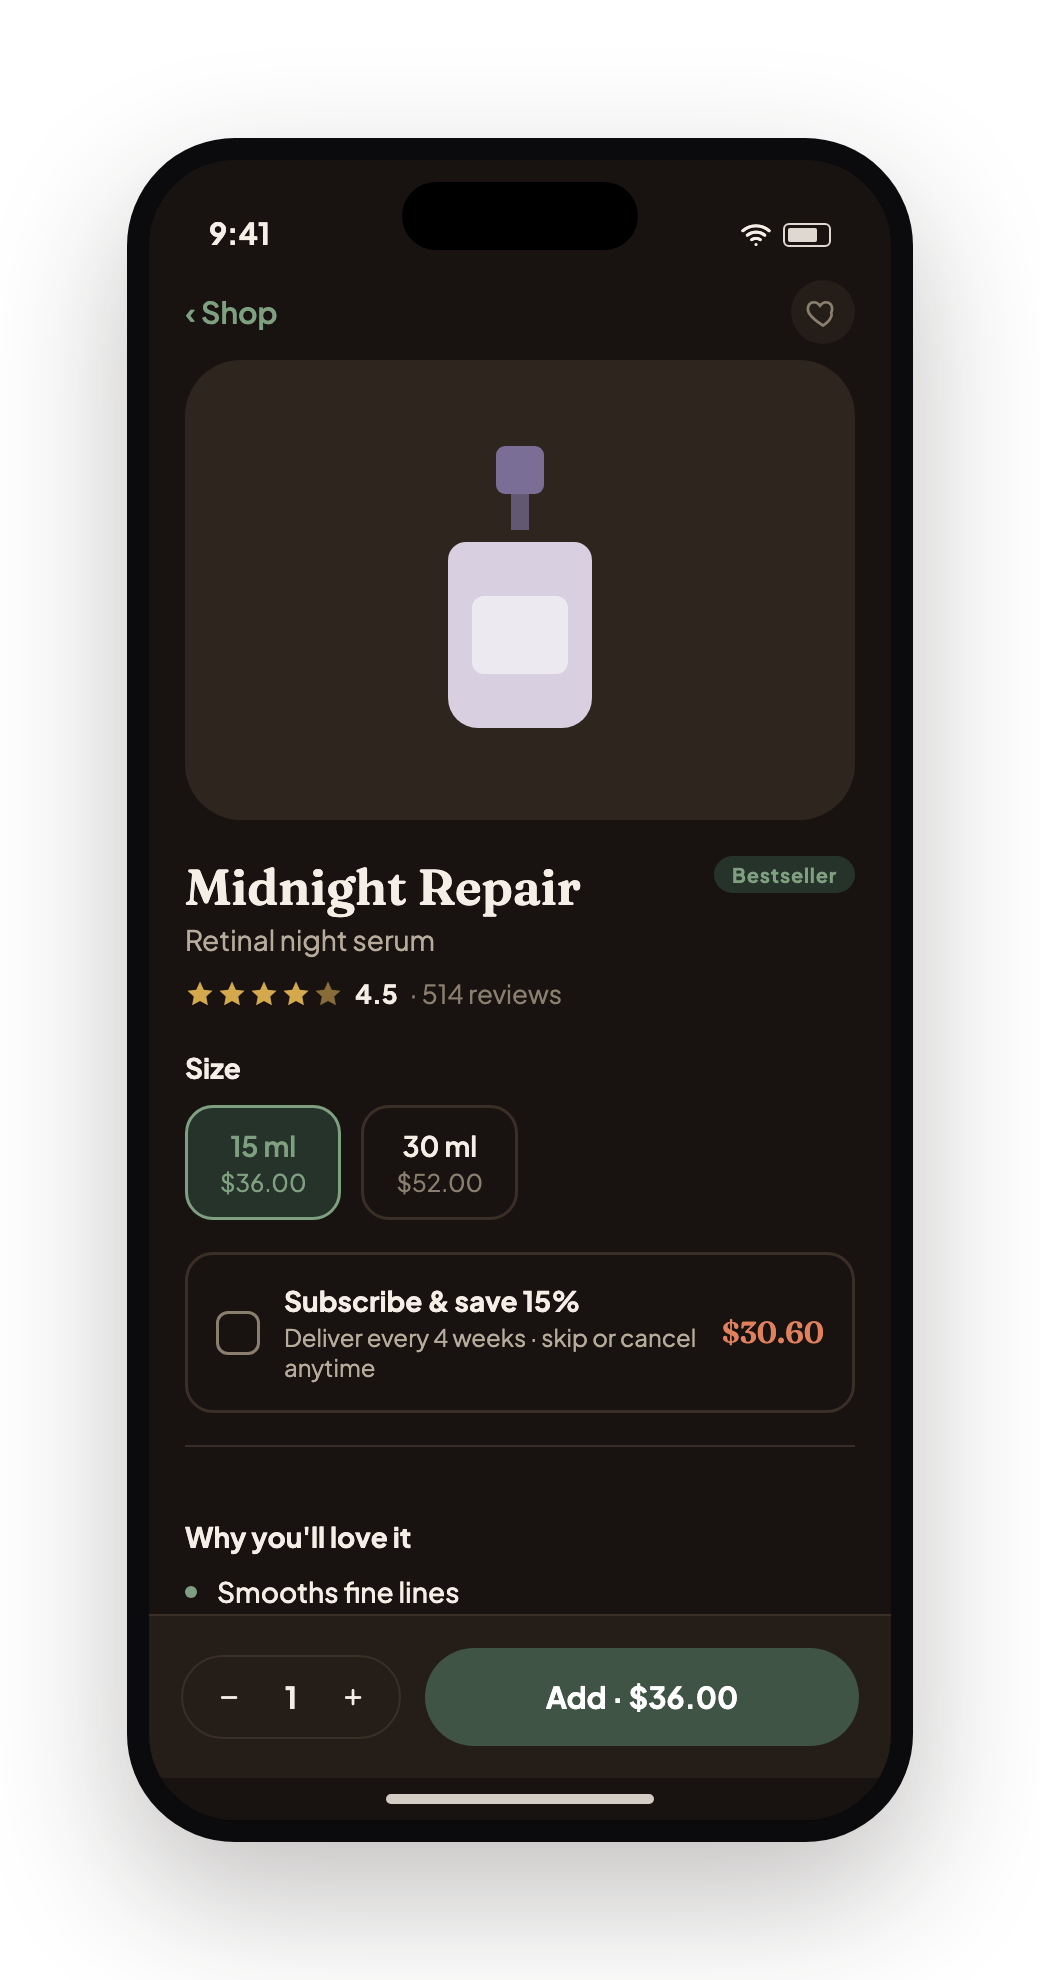
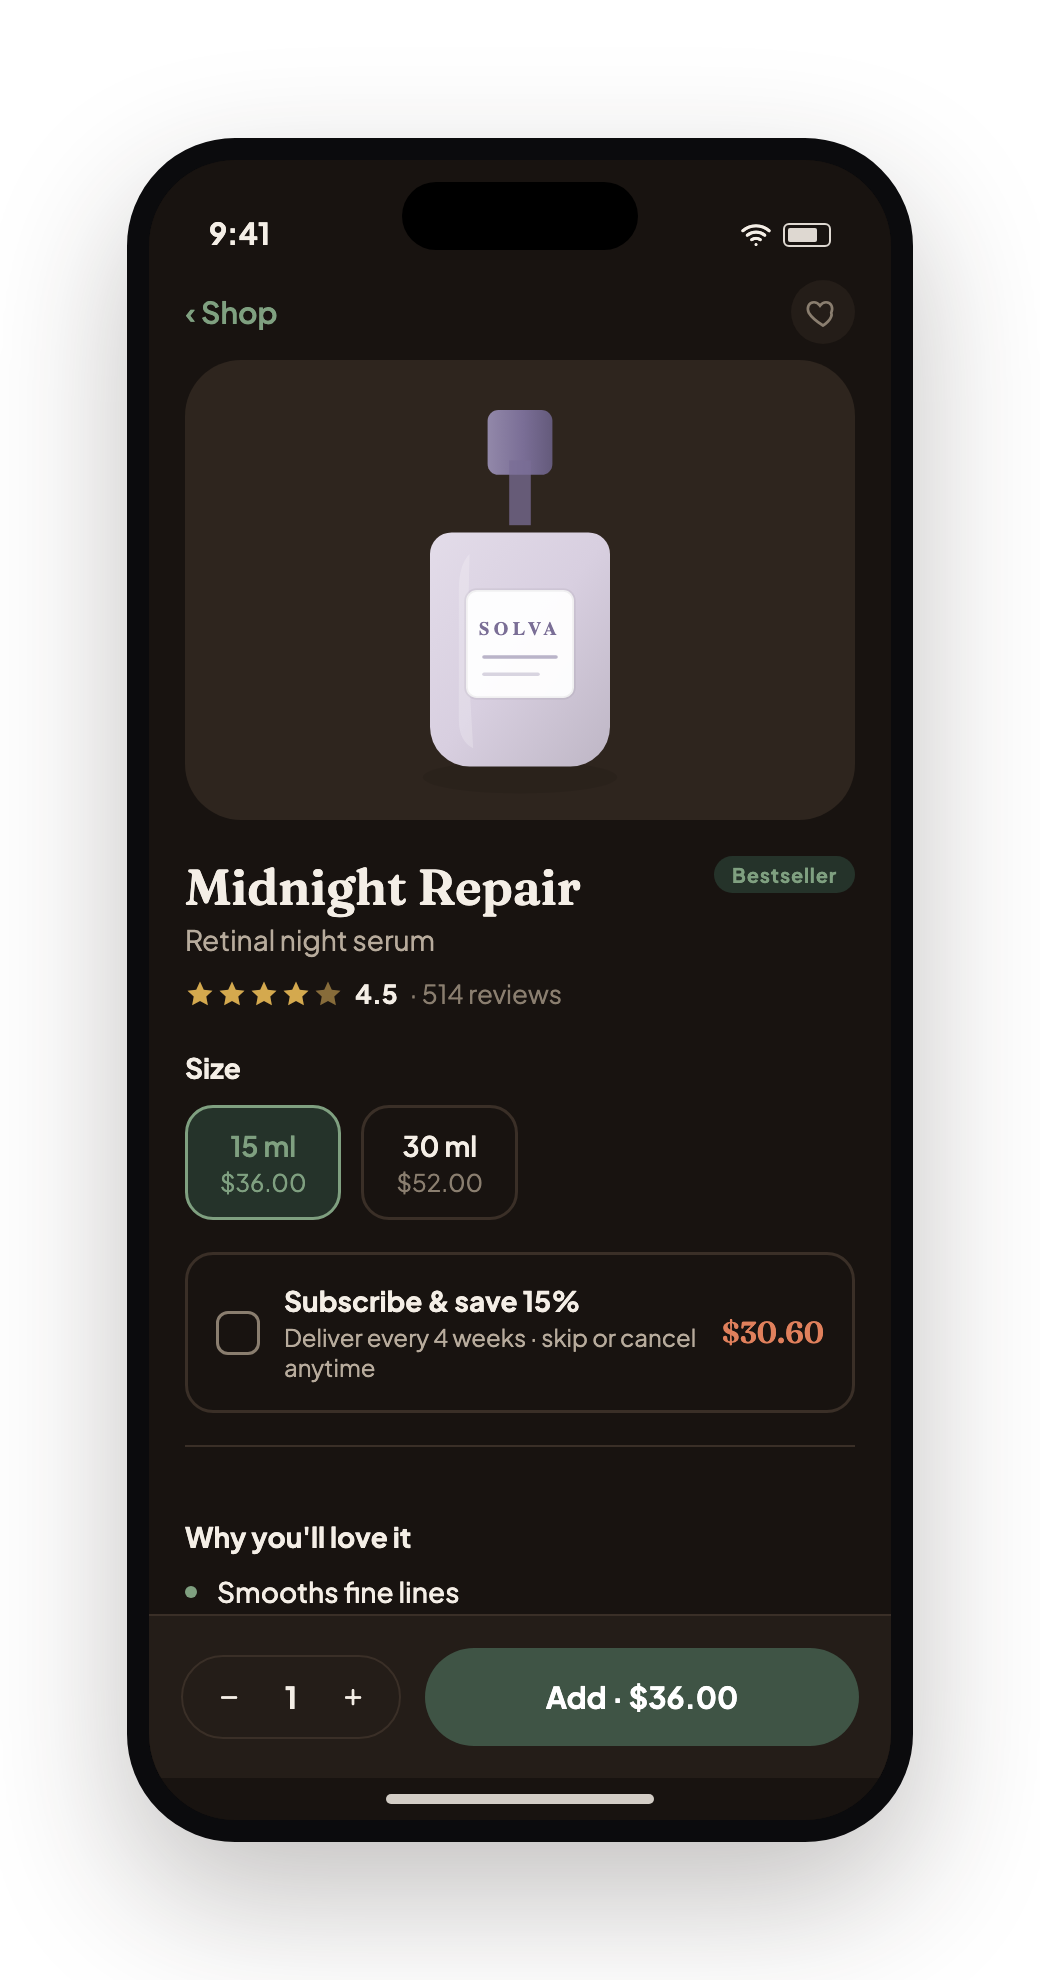
Solva: upgrade product art to premium SVG renders + photo drop-in
Replace the flat placeholder vessels with layered "product mockups": glass
linear-gradient body, specular sheen, printed SOLVA label, and a soft ground
shadow — reads as a designed skincare product, not a placeholder.

Adds a drop-in image system: src/data/productImages.ts maps product ids to
bundled PNGs; ProductArt renders the photo when present and falls back to the
SVG otherwise. README documents the swap + a cohesive AI-photo generation
prompt. Screenshots (light+dark) + hero refreshed. tsc strict + 27 tests green.

Changed region(s): [[0.4, 0.1848, 0.5846, 0.4005]]

diff --git a/storefront/src/components/ProductArt.tsx b/storefront/src/components/ProductArt.tsx
@@ -1,83 +1,146 @@
-import React from 'react';
-import { View } from 'react-native';
-import Svg, { Rect, Path, Circle, Ellipse, G, Line } from 'react-native-svg';
+import React, { useId } from 'react';
+import { View, Image, ImageSourcePropType } from 'react-native';
+import Svg, { Rect, Path, Circle, Ellipse, G, Line, Defs, LinearGradient, Stop, Text as SvgText } from 'react-native-svg';
 import { PRODUCT_TINTS } from '../theme';
 import type { Vessel } from '../types';
 
-// Illustrations are brand assets — identical in light & dark. The label
-// highlight is a fixed white, independent of the active theme.
 const HL = '#FFFFFF';
 
+/* --- tiny hex helpers so we can build glass gradients from a single tint --- */
+function mix(hex: string, target: number, amt: number) {
+  const n = parseInt(hex.slice(1), 16);
+  const r = (n >> 16) & 255, g = (n >> 8) & 255, b = n & 255;
+  const m = (c: number) => Math.round(c + (target - c) * amt);
+  return `#${((1 << 24) + (m(r) << 16) + (m(g) << 8) + m(b)).toString(16).slice(1)}`;
+}
+const lighten = (hex: string, amt: number) => mix(hex, 255, amt);
+const darken = (hex: string, amt: number) => mix(hex, 0, amt);
+
 /**
- * Minimalist SVG product illustrations, tinted per product. Gives the whole
- * catalog a cohesive boutique look with zero stock photos / image assets.
- * Drawn on a 100x120 viewBox and scaled to `size`.
+ * Product renders. Two modes:
+ *  - `image` given → render that photo (drop-in for real / AI product shots).
+ *  - otherwise → a layered SVG "product mockup": glass gradient body, specular
+ *    highlight, printed label with the SOLVA wordmark, and a soft ground shadow.
+ * Brand asset — identical in light & dark. Drawn on a 100x120 viewBox.
  */
 export function ProductArt({
   vessel,
   tint,
   size = 120,
+  image,
 }: {
   vessel: Vessel;
   tint: string;
   size?: number;
+  image?: ImageSourcePropType | null;
 }) {
-  const t = PRODUCT_TINTS[tint] ?? PRODUCT_TINTS.sage;
   const h = size * 1.2;
+  const uid = useId().replace(/[:]/g, '');
+
+  if (image) {
+    return <Image source={image} style={{ width: size, height: h, resizeMode: 'contain' }} />;
+  }
+
+  const t = PRODUCT_TINTS[tint] ?? PRODUCT_TINTS.sage;
+  const bodyGrad = `b${uid}`;
+  const capGrad = `c${uid}`;
+
   return (
     <View style={{ width: size, height: h, alignItems: 'center', justifyContent: 'center' }}>
       <Svg width={size} height={h} viewBox="0 0 100 120">
-        {shape(vessel, t)}
+        <Defs>
+          <LinearGradient id={bodyGrad} x1="0" y1="0" x2="1" y2="1">
+            <Stop offset="0" stopColor={lighten(t.fill, 0.28)} />
+            <Stop offset="0.5" stopColor={t.fill} />
+            <Stop offset="1" stopColor={darken(t.fill, 0.12)} />
+          </LinearGradient>
+          <LinearGradient id={capGrad} x1="0" y1="0" x2="1" y2="0">
+            <Stop offset="0" stopColor={lighten(t.cap, 0.18)} />
+            <Stop offset="0.55" stopColor={t.cap} />
+            <Stop offset="1" stopColor={darken(t.cap, 0.18)} />
+          </LinearGradient>
+        </Defs>
+        {/* soft ground shadow */}
+        <Ellipse cx="50" cy="112" rx="27" ry="4.5" fill="#000" opacity={0.08} />
+        {shape(vessel, t, bodyGrad, capGrad)}
       </Svg>
     </View>
   );
 }
 
-function shape(vessel: Vessel, t: { fill: string; cap: string }) {
-  const label = <Rect x="34" y="62" width="32" height="26" rx="4" fill={HL} opacity={0.55} />;
+/** Printed label: rounded card + thin accent rule + SOLVA wordmark. */
+function Label({ x, y, w, h, accent }: { x: number; y: number; w: number; h: number; accent: string }) {
+  const cx = x + w / 2;
+  return (
+    <G>
+      <Rect x={x} y={y} width={w} height={h} rx={3} fill={HL} opacity={0.94} />
+      <Rect x={x} y={y} width={w} height={h} rx={3} fill="none" stroke="#000" strokeOpacity={0.05} />
+      <SvgText x={cx} y={y + h * 0.42} fill={accent} fontSize={5.2} fontWeight="700" textAnchor="middle" letterSpacing={1.2}>
+        SOLVA
+      </SvgText>
+      <Line x1={x + 5} y1={y + h * 0.62} x2={x + w - 5} y2={y + h * 0.62} stroke={accent} strokeWidth={1} opacity={0.5} strokeLinecap="round" />
+      <Line x1={x + 5} y1={y + h * 0.78} x2={x + w - 10} y2={y + h * 0.78} stroke={accent} strokeWidth={1} opacity={0.28} strokeLinecap="round" />
+    </G>
+  );
+}
+
+/** Glass sheen highlight down one edge of the body. */
+function Sheen({ d }: { d: string }) {
+  return <Path d={d} fill={HL} opacity={0.22} />;
+}
+
+function shape(vessel: Vessel, t: { fill: string; cap: string }, body: string, cap: string) {
+  const g = `url(#${body})`;
+  const c = `url(#${cap})`;
   switch (vessel) {
     case 'bottle':
       return (
         <G>
-          <Rect x="43" y="16" width="14" height="12" rx="2" fill={t.cap} />
-          <Rect x="40" y="26" width="20" height="6" rx="2" fill={t.cap} opacity={0.85} />
-          <Rect x="30" y="32" width="40" height="72" rx="12" fill={t.fill} />
-          {label}
-          <Line x1="40" y1="70" x2="60" y2="70" stroke={t.cap} strokeWidth="2" strokeLinecap="round" opacity={0.5} />
+          <Rect x="43" y="15" width="14" height="13" rx="2" fill={c} />
+          <Rect x="40" y="26" width="20" height="6" rx="2" fill={t.cap} opacity={0.9} />
+          <Rect x="30" y="32" width="40" height="74" rx="13" fill={g} />
+          <Sheen d="M35 40 q-3 4 -3 12 v34 q0 6 4 8 q-2 -26 -1 -54 z" />
+          <Label x={35} y={58} w={30} h={30} accent={t.cap} />
         </G>
       );
     case 'dropper':
       return (
         <G>
-          <Rect x="42" y="12" width="16" height="16" rx="3" fill={t.cap} />
-          <Rect x="47" y="24" width="6" height="16" fill={t.cap} opacity={0.7} />
-          <Path d="M32 44 h36 a6 6 0 0 1 6 6 v46 a10 10 0 0 1 -10 10 h-28 a10 10 0 0 1 -10 -10 v-46 a6 6 0 0 1 6 -6 z" fill={t.fill} />
-          {label}
+          <Rect x="41" y="10" width="18" height="18" rx="3" fill={c} />
+          <Rect x="47" y="24" width="6" height="18" fill={t.cap} opacity={0.75} />
+          <Path d="M31 44 h38 a6 6 0 0 1 6 6 v48 a11 11 0 0 1 -11 11 h-28 a11 11 0 0 1 -11 -11 v-48 a6 6 0 0 1 6 -6 z" fill={g} />
+          <Sheen d="M36 50 q-3 3 -3 10 v36 q0 6 4 8 q-2 -28 -1 -54 z" />
+          <Label x={35} y={60} w={30} h={30} accent={t.cap} />
         </G>
       );
     case 'jar':
       return (
         <G>
-          <Rect x="26" y="30" width="48" height="12" rx="4" fill={t.cap} />
-          <Path d="M28 42 h44 v46 a12 12 0 0 1 -12 12 h-20 a12 12 0 0 1 -12 -12 z" fill={t.fill} />
-          <Ellipse cx="50" cy="42" rx="22" ry="5" fill={HL} opacity={0.35} />
+          <Rect x="25" y="28" width="50" height="13" rx="4" fill={c} />
+          <Ellipse cx="50" cy="41" rx="25" ry="4" fill={darken(t.cap, 0.1)} opacity={0.5} />
+          <Path d="M27 42 h46 v44 a13 13 0 0 1 -13 13 h-20 a13 13 0 0 1 -13 -13 z" fill={g} />
+          <Ellipse cx="50" cy="42" rx="23" ry="5" fill={HL} opacity={0.4} />
+          <Sheen d="M33 50 q-3 4 -3 12 v20 q0 6 4 8 q-2 -22 -1 -40 z" />
+          <Label x={34} y={60} w={32} h={26} accent={t.cap} />
         </G>
       );
     case 'tube':
       return (
         <G>
-          <Rect x="44" y="16" width="12" height="10" rx="2" fill={t.cap} />
-          <Path d="M34 26 h32 v66 a8 8 0 0 1 -8 8 h-16 a8 8 0 0 1 -8 -8 z" fill={t.fill} />
-          <Path d="M34 100 l4 6 h24 l4 -6 z" fill={t.cap} opacity={0.85} />
-          {label}
+          <Rect x="43" y="14" width="14" height="11" rx="2" fill={c} />
+          <Path d="M34 25 h32 v60 a9 9 0 0 1 -9 9 h-14 a9 9 0 0 1 -9 -9 z" fill={g} />
+          <Path d="M34 100 l3 -6 h26 l3 6 z" fill={t.cap} opacity={0.9} />
+          <Sheen d="M39 32 q-3 3 -3 10 v40 q0 6 4 7 q-2 -30 -1 -57 z" />
+          <Label x={35} y={44} w={30} h={30} accent={t.cap} />
         </G>
       );
     case 'pouch':
       return (
         <G>
-          <Path d="M28 20 h44 v6 h-44 z" fill={t.cap} />
-          <Path d="M30 26 h40 v70 a4 4 0 0 1 -4 4 h-32 a4 4 0 0 1 -4 -4 z" fill={t.fill} />
-          <Circle cx="50" cy="40" r="8" fill={HL} opacity={0.4} />
+          <Path d="M27 18 h46 v7 h-46 z" fill={c} />
+          <Path d="M29 25 h42 v70 a4 4 0 0 1 -4 4 h-34 a4 4 0 0 1 -4 -4 z" fill={g} />
+          <Sheen d="M35 32 q-3 3 -3 10 v42 q0 4 3 6 q-2 -30 -1 -58 z" />
+          <Label x={35} y={44} w={30} h={34} accent={t.cap} />
         </G>
       );
   }

diff --git a/storefront/src/screens/ProductDetail.tsx b/storefront/src/screens/ProductDetail.tsx
@@ -4,6 +4,7 @@ import { FONT, RADIUS, SUBSCRIBE_DISCOUNT, BTN, type Palette } from '../theme';
 import { useTheme, useStyles } from '../theme-context';
 import { Stars, Tag, HeartButton, Divider } from '../ui';
 import { ProductArt } from '../components/ProductArt';
+import { productImage } from '../data/productImages';
 import { useStore } from '../store';
 import { money, isOnSale, discountPct, unitPriceCents, reviewsFor, averageReviewRating } from '../selectors';
 
@@ -47,7 +48,7 @@ export default function ProductDetail({
       <Header onBack={onBack} wished={wished} onWish={() => store.toggleWish(product.id)} />
       <ScrollView contentContainerStyle={styles.body} showsVerticalScrollIndicator={false}>
         <View style={styles.gallery}>
-          <ProductArt vessel={product.vessel} tint={product.tint} size={150} />
+          <ProductArt vessel={product.vessel} tint={product.tint} size={180} image={productImage(product.id)} />
           {sale ? <View style={styles.saleTag}><Tag label={`-${discountPct(product)}% summer`} tone="terra" /></View> : null}
         </View>
 

diff --git a/storefront/src/data/productImages.ts b/storefront/src/data/productImages.ts
@@ -1,0 +1,24 @@
+import type { ImageSourcePropType } from 'react-native';
+
+/**
+ * Drop-in real / AI-generated product photos.
+ *
+ * The catalog renders layered SVG "product mockups" by default. To use real
+ * photography instead, drop PNGs into `assets/products/` and map them here by
+ * product id — the app will render the photo wherever that product appears,
+ * with the SVG as an automatic fallback for any id left unmapped.
+ *
+ * Example:
+ *   p00: require('../../assets/products/p00.png'),
+ *   p01: require('../../assets/products/p01.png'),
+ *
+ * Shoot/generate all products on the same background + lighting for a cohesive
+ * grid (see the generation prompt in the README).
+ */
+export const PRODUCT_IMAGES: Record<string, ImageSourcePropType> = {
+  // (empty — using SVG renders until real photos are added)
+};
+
+export function productImage(id: string): ImageSourcePropType | null {
+  return PRODUCT_IMAGES[id] ?? null;
+}

diff --git a/storefront/src/components/ProductCard.tsx b/storefront/src/components/ProductCard.tsx
@@ -4,6 +4,7 @@ import { FONT, RADIUS, type Palette } from '../theme';
 import { useStyles } from '../theme-context';
 import { Stars, Tag, HeartButton } from '../ui';
 import { ProductArt } from './ProductArt';
+import { productImage } from '../data/productImages';
 import type { Product } from '../types';
 import { money, isOnSale, discountPct } from '../selectors';
 
@@ -24,7 +25,7 @@ export function ProductCard({
   return (
     <Pressable style={styles.card} onPress={onPress}>
       <View style={styles.art}>
-        <ProductArt vessel={product.vessel} tint={product.tint} size={88} />
+        <ProductArt vessel={product.vessel} tint={product.tint} size={110} image={productImage(product.id)} />
         <View style={styles.topRow}>
           {sale ? <Tag label={`-${discountPct(product)}%`} tone="terra" /> : <View />}
           <HeartButton active={wished} onPress={onWish} />

diff --git a/storefront/README.md b/storefront/README.md
@@ -85,6 +85,23 @@ On web the app renders inside an iPhone frame for clean portfolio screenshots. U
 drive deterministic captures: `?tab=Shop|Search|Saved|Bag`, `?product=<id>`,
 `?checkout=1`, and `?seedcart=1` / `?seedwish=1` to pre-fill a demo bag / wishlist.
 
+## Product imagery
+
+Products render as layered **SVG mockups** (glass-gradient body, specular highlight,
+printed SOLVA label, soft shadow) — cohesive and asset-free. To swap in **real / AI
+photography**, drop PNGs into `assets/products/` and map them by id in
+`src/data/productImages.ts`; the app renders the photo wherever the product appears and
+falls back to the SVG for any unmapped id. No other code changes.
+
+Prompt for a cohesive AI-generated set (one per product, same look):
+
+> *Studio product photograph of a [dropper serum bottle / frosted glass jar / squeeze
+> tube / matte pouch] for a premium clean-skincare brand, [tint] colored packaging,
+> minimalist white label, centered on a seamless warm-cream (#F6F2EC) background, soft
+> diffused daylight from the left, gentle shadow, 1:1, high detail, no text.*
+
+Keep background, framing and lighting identical across all 17 so the grid reads as one shelf.
+
 ## Data
 
 The catalog is **100% synthetic** — generated by `scripts/gen_catalog.py` with a fixed RNG
